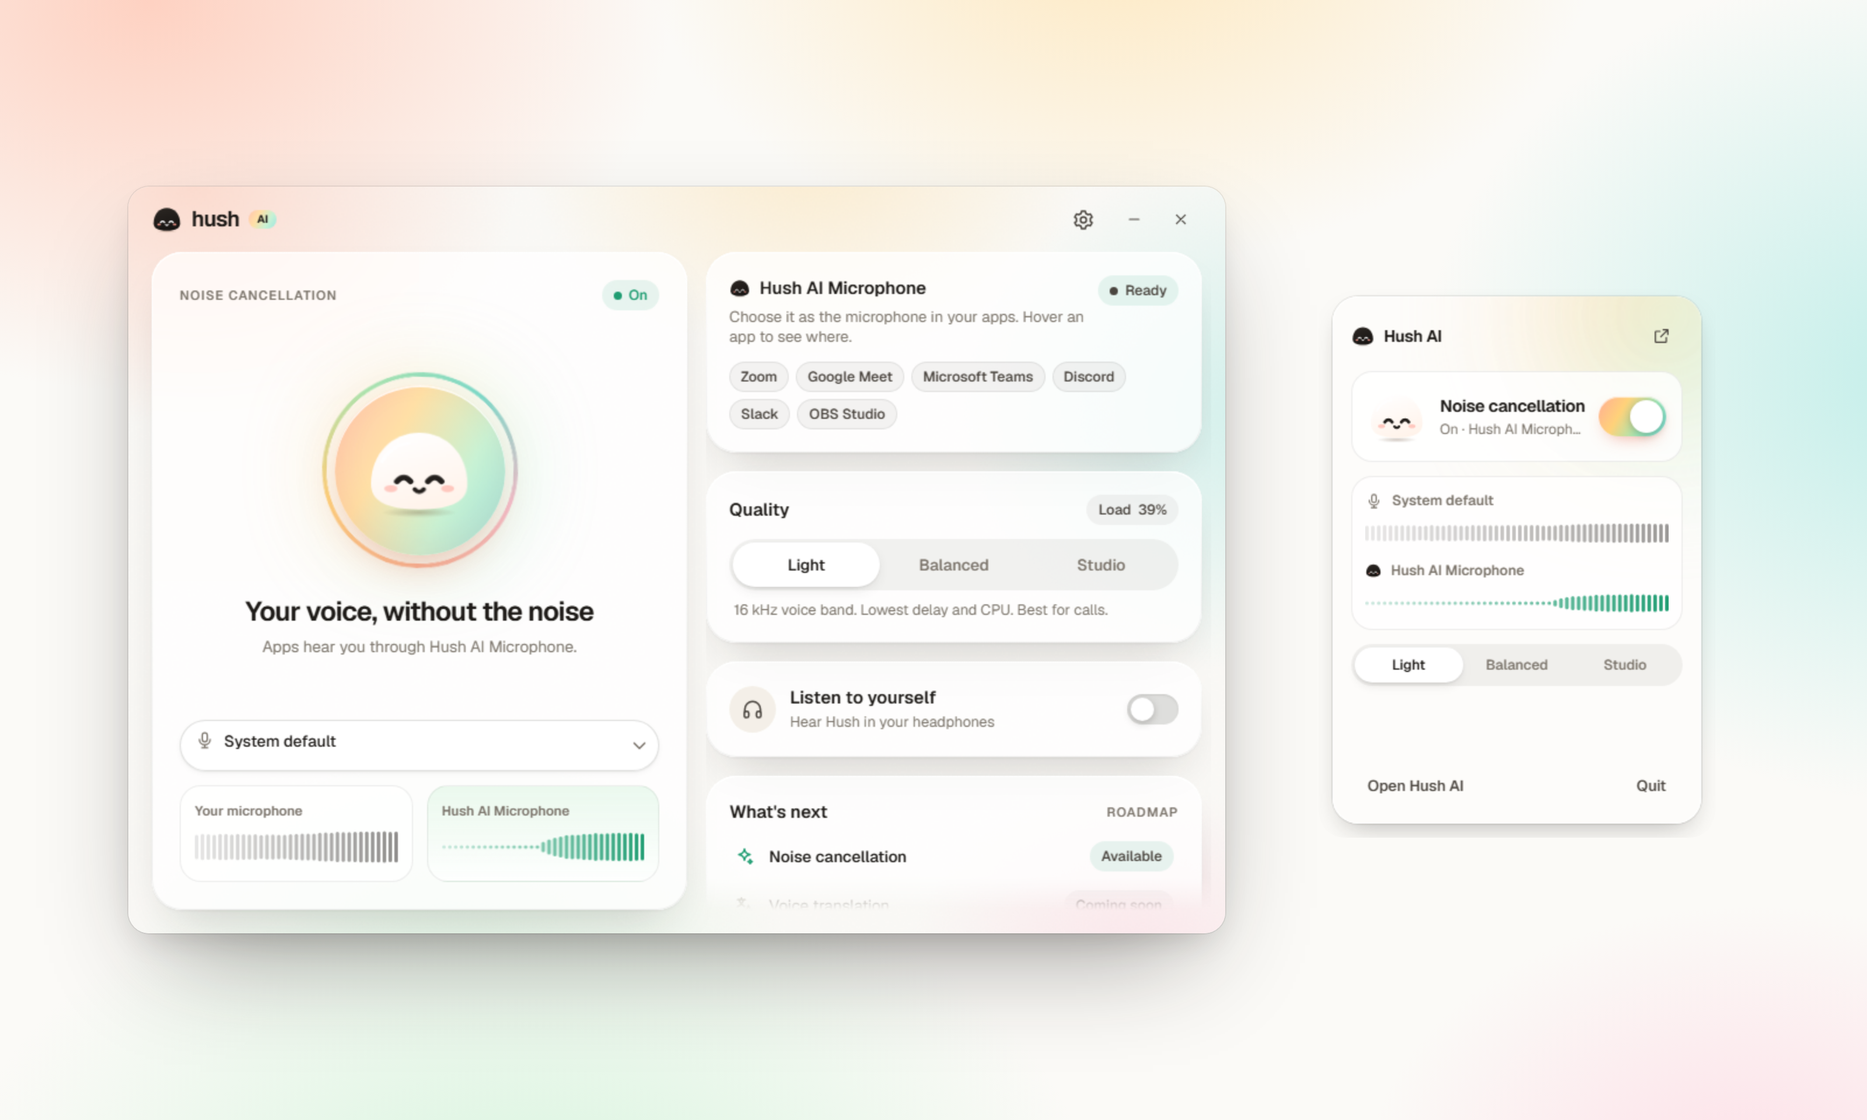
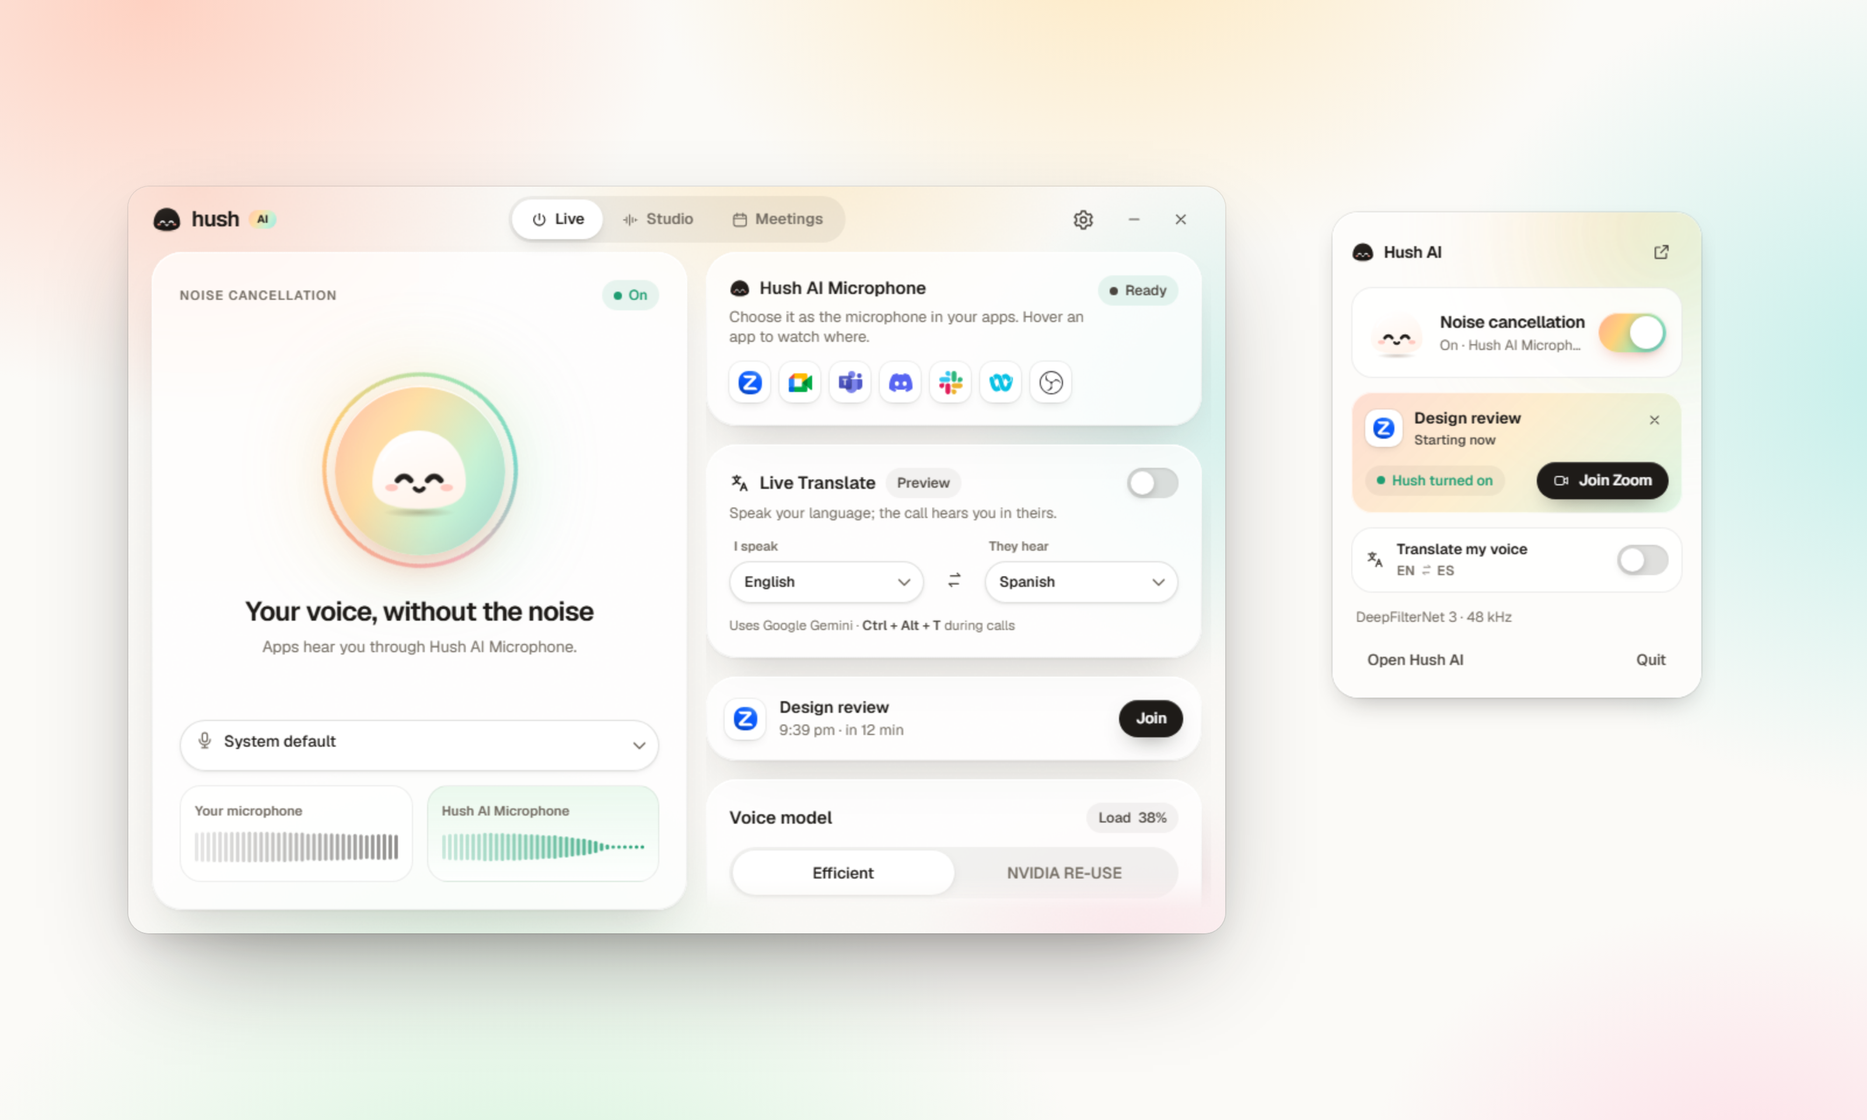
Docs and README for Studio, Meetings and Live Translate; version 1.1.0

diff --git a/assets/screenshots/showcase.html b/assets/screenshots/showcase.html
@@ -11,10 +11,10 @@
   .frame{position:absolute;border-radius:18px;overflow:hidden;background:#fbfaf7;
     box-shadow:0 0 0 1px rgba(30,27,24,.08),0 40px 90px -30px rgba(30,27,24,.45),0 12px 30px -12px rgba(30,27,24,.2)}
   .main{left:110px;top:160px;width:940px;height:640px}
-  .widget{left:1130px;top:242px;width:340px;height:476px;border-radius:22px;background:transparent;box-shadow:none}
+  .widget{left:1130px;top:170px;width:340px;height:640px;border-radius:22px;background:transparent;box-shadow:none}
   iframe{border:0;width:100%;height:100%;display:block}
 </style></head>
 <body>
   <div class="frame main"><iframe src="http://localhost:1420/?platform=windows"></iframe></div>
-  <div class="frame widget"><iframe src="http://localhost:1420/?platform=windows#widget"></iframe></div>
+  <div class="frame widget"><iframe src="http://localhost:1420/?platform=windows&soon=1#widget"></iframe></div>
 </body></html>

diff --git a/app/src/views/Studio.tsx b/app/src/views/Studio.tsx
@@ -9,7 +9,8 @@ import { toast } from "../components/Toast";
 import { features, mediaUrl, useFeatures, type StudioResult } from "../lib/features";
 import { isTauri } from "../lib/ipc";
 
-const FORMATS = ["wav", "mp3", "m4a", "aac", "flac", "ogg", "oga", "opus", "mp4", "mov", "aif", "aiff", "caf", "mkv", "webm"];
+// What Symphonia decodes: no Opus yet.
+const FORMATS = ["wav", "mp3", "m4a", "aac", "flac", "ogg", "oga", "mp4", "mov", "aif", "aiff", "caf", "mkv"];
 
 function clock(seconds: number) {
   const s = Math.max(0, Math.floor(seconds));

diff --git a/README.md b/README.md
@@ -37,20 +37,23 @@ from your voice while you talk**, and from recordings you already have.
 - **In Studio**, drop an audio or video file, or record yourself, and save a clean WAV.
 - **With Google Calendar**, Hush turns itself on a minute before each call and pops up with a
   Join button. No Google sign-in.
+- **With Live Translate** (Preview), you speak your language and the call hears you in
+  theirs, through Google's Gemini Live Translate and your own API key.
 
-No account. No cloud. No subscription. No minute limits. Your voice never leaves your computer.
+No account. No subscription. No minute limits. Noise cancellation never leaves your computer.
 
 ## Why Hush AI
 
 |  |  |
 | --- | --- |
-| 🔒 **On your computer** | Everything runs on your CPU. Hush sends no audio and no telemetry, and has no servers. |
-| 🪶 **Light** | The default engine, DeepFilterNet 3, needs about 6% of one CPU core. Your laptop stays cool and quiet. |
-| ⚡ **Real time** | 10–20 ms frames, about 60 ms from your microphone to your call. |
+| 🔒 **On your computer** | Noise cancellation and Studio run on your CPU. Hush sends no telemetry and has no servers. |
+| 🪶 **Light** | The default engine, DeepFilterNet 3, needs one thread: about 7% of a laptop core offline, 11–13% live. Your laptop stays cool and quiet. |
+| ⚡ **Real time** | 10–20 ms frames, about 60 ms before device buffers. |
 | 🎙 **Works everywhere** | One virtual microphone for every app. A tray and menu bar widget to switch it on and off. |
 | 🎚 **Two engines** | DeepFilterNet 3 (light, the default) or NVIDIA Real-time RE-USE (most natural at high settings). Switch any time. |
 | 📼 **Studio** | Clean up podcasts, voice notes, interviews and lectures. Drag and drop, compare before and after, save. |
 | 📅 **Meetings** | Google Calendar through its private iCal address. Hush is ready before your call is. |
+| 🌍 **Live Translate** | Preview. Pick "I speak" and "They hear" from 70+ languages; switch it in calls with Ctrl+Alt+T. The one feature that uses the cloud, and only while it is on. |
 | 🔓 **Open source** | Apache-2.0 app and engine. Read every line. |
 
 ## Hush AI, Krisp and Adobe Podcast
@@ -63,6 +66,7 @@ No account. No cloud. No subscription. No minute limits. Your voice never leaves
 | **Where your audio is processed** | Your computer | Your computer (noise cancellation) | Adobe's servers: you upload the file |
 | **Live calls in any app** | Yes | Yes | No |
 | **Clean up recordings** | Yes, on your computer | – | Yes, in the browser |
+| **Live voice translation** | Preview, through Google Gemini with your key | – | No |
 
 From the vendors' public pages ([krisp.ai/pricing](https://krisp.ai/pricing/),
 [podcast.adobe.com](https://podcast.adobe.com/en/plans)), November 2026; – means we did not
@@ -134,6 +138,21 @@ both waveforms, and lets you switch between the original and the clean version w
 plays. **Save clean WAV** writes a 48 kHz file wherever you like. Long files are fine: Hush
 reads and writes them in pieces, so memory stays flat.
 
+### Live Translate: be heard in their language
+
+1. On the **Live** tab, press **Add your Gemini API key**. Hush opens
+   [Google AI Studio](https://aistudio.google.com/apikey); press **Create API key** and copy
+   it. Back in Hush, the key is noticed, checked with Google and kept in Hush's settings
+   folder.
+2. Choose **I speak** and **They hear**; ⇄ swaps them.
+3. Turn on **Live Translate**. Your apps hear the translated voice through Hush AI
+   Microphone, and captions show what you said and what they hear.
+
+In a call, switch it from the tray widget, the tray menu (**Translate my voice**) or with
+**Ctrl + Alt + T** (**⌘ ⌥ T** on macOS). While it is on, your noise-cancelled voice goes to
+Google's `gemini-3.5-live-translate-preview` model; Google's terms and pricing apply to your
+key (there is a free tier). The translation follows you by a phrase or so.
+
 ### Meetings: Google Calendar without signing in
 
 Open the **Meetings** tab and press **Connect Google Calendar**:
@@ -162,6 +181,7 @@ flowchart LR
   engine --> vmic["Hush AI Microphone<br/>(virtual device)"]
   vmic --> apps["Zoom · Meet · Teams<br/>Slack · Discord · OBS · …"]
   file["📼 A recording"] --> studio["Studio<br/>same engine, off the audio path"] --> wav["Clean WAV"]
+  engine -.->|"Live Translate on"| gemini["Google Gemini<br/>Live Translate"] -.-> vmic
 ```
 
 - The **engine** (`crates/hush-core`) runs either model one frame at a time on the CPU:
@@ -187,12 +207,13 @@ the best.
 | --- | ---: | ---: | ---: | ---: | ---: |
 | No noise removal | 1.97 | 0.921 | 8.4 dB | 2.70 | – |
 | RNNoise | 2.11 | 0.890 | 12.3 dB | 2.94 | 5% |
-| **Hush · DeepFilterNet 3** (default) | **3.10** | **0.945** | **19.0 dB** | 3.18 | 6% |
+| **Hush · DeepFilterNet 3** (default) | **3.10** | **0.945** | **19.0 dB** | 3.18 | 7% |
 | Hush · NVIDIA RE-USE, Light (16 kHz, 3 layers) | 2.61 | 0.934 | 18.0 dB | 3.16 | 79% |
 | Hush · NVIDIA RE-USE, 8 layers | 2.77 | 0.938 | 18.5 dB | **3.23** | 146% |
 
 - **Hush leads every metric.** DeepFilterNet 3 has the best PESQ, STOI and SI-SDR at about
-  6% of a core; RE-USE with 8 layers has the most natural sound by DNSMOS.
+  7% of a core; RE-USE with 8 layers has the most natural sound by DNSMOS. CPU figures are
+  rough: the laptop was doing other work.
 - **Why two engines:** DeepFilterNet 3 is light and accurate, so it is the default. RE-USE
   needs a faster CPU, for people who want its sound.
 - **Both are reproduced faithfully.** Hush's RE-USE matches NVIDIA's published PESQ (2.77
@@ -210,7 +231,7 @@ long runs.
 - [x] **Noise cancellation**: real time, on device, in every app
 - [x] **Studio**: clean up recordings on your computer
 - [x] **Meetings**: Google Calendar without signing in
-- [ ] **Voice translation**
+- [x] **Voice translation**: Live Translate (Preview), through Google Gemini
 - [ ] **Agent assist**
 - [ ] **Speech analytics**
 - [ ] **Voice security**
@@ -269,9 +290,10 @@ that model. See [License](#license).
 <details>
 <summary><b>Does my voice leave my computer?</b></summary>
 
-No. Hush AI connects to the internet only to download a model once, to check GitHub for
-updates (you can turn this off), and, if you connect it, to read your calendar's iCal
-address from Google.
+Not for noise cancellation or Studio: they run on your computer. Hush connects to the
+internet to download a model once, to check GitHub for updates (you can turn this off), to
+read your calendar's iCal address if you connect one, and, **only while Live Translate is
+on**, to send your voice to Google for translation.
 </details>
 
 <details>
@@ -326,8 +348,11 @@ All docs are also on the website at [alshell7.github.io/hush-ai/docs](https://al
 - Microsoft's [SysVAD sample](https://github.com/microsoft/Windows-driver-samples) (MS-PL)
   for the Windows driver, and Apple's Audio Server Plug-in design for macOS.
 - [VB-CABLE](https://vb-audio.com/Cable/) by VB-Audio, the free virtual cable Hush uses on Windows.
-- [Symphonia](https://github.com/pdeljanov/Symphonia) for reading audio files, and
-  [rrule](https://github.com/fmeringdal/rust-rrule) for repeating calendar events.
+- [Symphonia](https://github.com/pdeljanov/Symphonia) for reading audio files,
+  [rrule](https://github.com/fmeringdal/rust-rrule) for repeating calendar events, and
+  [tungstenite](https://github.com/snapview/tungstenite-rs) for the Gemini Live connection.
+- [Google Gemini 3.5 Live Translate](https://aistudio.google.com/docs/live-api/live-translate),
+  the cloud model behind Live Translate (with your own key).
 - App logos from [gilbarbara/logos](https://github.com/gilbarbara/logos) and
   [Simple Icons](https://simpleicons.org) (CC0). The names and logos belong to their owners.
 - [Tauri](https://tauri.app), [HeroUI](https://heroui.com), [Motion](https://motion.dev) and the Geist font.

diff --git a/docs/GUIDE.md b/docs/GUIDE.md
@@ -21,7 +21,7 @@ The warnings appear because the apps are not code-signed yet. They appear only o
 1. **Voice model.** Choose a model and download it. Hush checks the file before it uses it.
    - **Efficient** (DeepFilterNet 3, 8 MB, recommended): little CPU, MIT or Apache-2.0
      license, so you can use it at work too.
-   - **NVIDIA RE-USE** (54 MB): more CPU. Accept NVIDIA's noncommercial license first.
+   - **NVIDIA RE-USE** (54 MB): more CPU. Agree to its license terms first.
 2. **Microphone.** Choose your microphone and say something. The bar moves when Hush hears you.
 3. **Hush AI Microphone.**
    - **macOS:** press **Install**. macOS asks for your password once.
@@ -53,18 +53,19 @@ own list.
 
 ## Every day
 
-- **Tray or menu bar.** Click the mochi: turn noise cancellation on or off, change the
-  microphone or the RE-USE quality. Right-click for the menu.
+- **Tray or menu bar.** Click the mochi: turn noise cancellation or Live Translate on or
+  off, swap languages, change the microphone, or join your next meeting. Double-click opens
+  the window (Windows). Right-click for the menu.
 - **Closing the window** keeps Hush running in the tray. Use **Quit** to stop it. When Hush
   is not running, Hush AI Microphone is silent.
 - **Open at login** (Settings) starts Hush in the tray when you log in.
 
 ### Voice model
 
-| Model | Use it for | Cost | License |
-| --- | --- | --- | --- |
-| **Efficient** (DeepFilterNet 3) | Everything (48 kHz full band) | Lowest CPU, one thread | MIT or Apache-2.0 |
-| **NVIDIA RE-USE** | Light, Balanced or Studio, below | More CPU | Non-commercial use only |
+| Model | Use it for | Cost |
+| --- | --- | --- |
+| **Efficient** (DeepFilterNet 3) | Everything (48 kHz full band) | Lowest CPU, one thread |
+| **NVIDIA RE-USE** | Light, Balanced or Studio, below | More CPU |
 
 Switch on the main screen. Settings › Voice models downloads or removes each model. On the
 [VoiceBank-DEMAND test](COMPARISON.md), DeepFilterNet 3 scored higher than RE-USE Light on
@@ -81,11 +82,70 @@ every metric.
 The **Load** chip shows how much of real time the model needs. Below 100% it keeps up. If
 it stays high, choose Efficient, or Light with RE-USE.
 
-### Listen to yourself
+## Studio: clean up a recording
 
-Turn on **Listen to yourself** to hear Hush in your headphones and switch between
-**Original** and **With Hush**. While Listen is on, apps do not get your voice. Use
-headphones, or your speakers will echo.
+Open the **Studio** tab.
+
+1. Drop a file on the window, press **Choose a file**, or press **Record yourself** (up to
+   30 minutes, from the microphone chosen on the Live tab).
+2. Hush cleans it with your voice model. Long files are fine; the progress ring shows the
+   time left.
+3. Press play and switch between **Original** and **With Hush** while it plays (the **A**
+   key switches, **Space** plays).
+4. **Save clean WAV** writes a 48 kHz mono file. **Show in folder** opens where you saved it.
+
+Files: WAV, MP3, M4A/AAC, FLAC, OGG, AIFF, CAF, and the sound of MP4, MOV and MKV. Stereo
+is mixed to mono. Everything happens on your computer.
+
+## Meetings: Google Calendar
+
+Open the **Meetings** tab and press **Connect Google Calendar**.
+
+1. **Open settings** opens Google Calendar's settings in your browser.
+2. Under **Settings for my calendars**, pick your calendar, then **Integrate calendar**.
+3. Copy **Secret address in iCal format**.
+4. Come back to Hush. It notices the address on the clipboard, checks it with Google and
+   shows the calendar's name and the meetings it found. Press **Connect**.
+
+You can also paste the address into the field. Any calendar that publishes an iCal
+(`.ics`) address over HTTPS works the same way.
+
+| Setting | What it does |
+| --- | --- |
+| Check for changes every 5, 15, 30 or 60 min | How often Hush reads the calendar |
+| Turn on noise cancellation 1, 2 or 5 min before | For meetings with a Meet, Zoom, Teams, Webex, Slack or Discord link |
+| Turn it off after the call | Only if Hush turned it on, and you did not turn it off yourself |
+| Pop up with a Join button | The tray widget opens a minute before the call |
+
+**Join** opens the meeting's own link. **Disconnect** makes Hush forget the address. The
+address is a secret link to your calendar: Hush keeps it only in its settings folder and
+never writes it to logs. If it leaks, reset it in Google Calendar and connect again.
+
+## Live Translate (Preview)
+
+Speak your language and the call hears you in theirs, in a natural voice, through Hush AI
+Microphone. Hush uses Google's **Gemini 3.5 Live Translate** model with your own API key.
+
+1. On the Live tab, press **Add your Gemini API key**. Hush opens Google AI Studio.
+2. Press **Create API key** and copy it. Back in Hush, it is noticed, checked with Google and
+   kept in Hush's settings folder.
+3. Choose **I speak** and **They hear** (70+ languages). ⇄ swaps them.
+4. Turn on **Live Translate**. Captions show what you said and what they hear.
+
+During a call, use the switch in the tray widget, **Translate my voice** in the tray menu,
+or **Ctrl + Alt + T** (**⌘ ⌥ T** on macOS) in any app. Translation turns noise cancellation
+on too, and stops when you turn noise cancellation off.
+
+Good to know:
+
+- **It uses the internet.** While Live Translate is on, your noise-cancelled voice goes to
+  Google; everything else in Hush stays on your computer.
+- **It follows you by a phrase or so.** Gemini translates phrase by phrase, so the other side
+  hears you a moment after you speak.
+- **Cost:** Google offers a free tier; paid use is billed by Google to your key. Google's
+  terms apply to the audio you send.
+- If you already speak their language, Gemini repeats you in that language, so they always
+  hear you.
 
 ## Fix problems
 
@@ -97,6 +157,11 @@ headphones, or your speakers will echo.
 | Windows: Hush AI Microphone missing after a VB-CABLE update | Open Hush › Set up › **Rename** again. |
 | macOS: Hush AI Microphone missing | Settings › Hush AI Microphone, or run setup again (it restarts Core Audio). |
 | Delay is noticeable | Windows with VB-CABLE adds about 84 ms. In VB-CABLE's control panel, a smaller buffer lowers it. |
+| Studio: "Hush cannot read this file" | Convert it to WAV or MP3. Opus files (for example WhatsApp voice notes) are not supported yet. |
+| Meetings: "The calendar did not accept this address" | The secret address was reset. Copy it again from Google Calendar. |
+| Live Translate: "Google did not accept this API key" | Create a new key in Google AI Studio and add it again. |
+| Live Translate is on but they hear silence | Check that Hush is **On**, speak a full sentence and wait a moment. Gemini answers phrase by phrase. |
+| Ctrl + Alt + T does nothing | Another app uses the same shortcut. Use the switch in the widget instead. |
 
 ## Uninstall
 
@@ -110,6 +175,8 @@ headphones, or your speakers will echo.
 
 ## Privacy
 
-Hush processes audio only on your computer. It connects to the internet to download a
-model (Hugging Face, or GitHub as a fallback) and to check for updates (GitHub). It sends no audio, no usage data and
-no crash reports.
+Noise cancellation and Studio run only on your computer. Hush connects to the internet to
+download a model (Hugging Face, or the model's original source as a fallback), to check for
+updates (GitHub), to read your calendar's iCal address if you connect one (Google), and to
+send your voice to Google while **Live Translate** is on. It sends no usage data and no
+crash reports, and it has no servers of its own.

diff --git a/docs/ARCHITECTURE.md b/docs/ARCHITECTURE.md
@@ -25,10 +25,10 @@ Both implement `hush_core::Enhancer`, the streaming interface that the live work
 ```mermaid
 flowchart LR
   A["Microphone<br/>input callback"] -->|bounded queue| B["Inference worker<br/>rate conversion · model · drift control"]
-  B -->|bounded queue| C{Output}
-  C -->|Hush AI Microphone| D["Feeder thread<br/>(2 ms, real-time priority)"]
-  C -->|Listen| E["Headphones<br/>output callback"]
-  D --> F["Driver ring buffer"]
+  B -->|bounded queue| C["Output callback or feeder<br/>(Live Translate tap)"]
+  C -->|clean voice, while translating| T["Translator thread<br/>Gemini Live over WebSocket"]
+  T -->|translated voice| C
+  C --> F["Hush AI Microphone"]
   F --> G["Zoom · Meet · Teams · …"]
 ```
 
@@ -39,8 +39,9 @@ flowchart LR
 | Input callback | Converts and down-mixes samples into a bounded queue | No allocation, lock or inference. A full queue drops samples and counts them |
 | Inference worker | Rate conversion, framing, model, output queue | Owns all model and filter state. DeepFilterNet 3 runs here, on this thread only |
 | Rayon workers | Parallel CPU kernels of RE-USE | **Automatic** (default) or a fixed count |
-| Output callback | Reads samples, fades gaps to silence | No allocation, lock or waiting |
-| Virtual microphone feeder | Moves output into the driver's ring buffer | Real-time priority; 2 ms period |
+| Output callback | Reads samples, fades gaps to silence, applies the Live Translate tap | No allocation, lock or waiting |
+| Virtual microphone feeder | Moves output into the driver's ring buffer (macOS) | Real-time priority; 2 ms period |
+| Translator | Only while Live Translate is on: sends 100 ms of 16 kHz voice to Gemini, plays its 24 kHz answer | Off the audio path; talks to the tap through two lock-free queues |
 
 ### Workers and priority
 
@@ -85,9 +86,16 @@ The worker counts frame time, peaks, drops and underruns with lock-free atomics.
 reads them 20 times per second, only while a window that shows them is visible. **Load** is
 the share of real time the worker needs for its frames: below 100% it keeps up.
 
-**Listen to yourself** sends the output to headphones instead of the Hush AI Microphone.
-The **Original / With Hush** switch plays the input delayed by the model delay, so both
-stay aligned and switching is seamless.
+### Live Translate tap
+
+Each live session creates a tap with two lock-free queues and shares one flag with the
+translator. While the flag is off, the tap does nothing. While it is on, the output callback
+pushes the clean voice into one queue and plays the translated voice from the other,
+silence when nothing has arrived yet. The translator thread resamples to 16 kHz, sends
+100 ms messages to `gemini-3.5-live-translate-preview` over the Live API WebSocket, decodes
+the 24 kHz answer and resamples it to the device rate. It keeps a session-resumption handle,
+so it continues on a new connection when Google rotates the old one (about every 10
+minutes), and reconnects with a new setup when the target language changes.
 
 ## App
 
@@ -102,7 +110,10 @@ flowchart TB
     MO["model.rs<br/>two models · download · SHA-256"]
     V["vmic.rs<br/>driver setup per system"]
     T["mictest.rs<br/>level meter · test recording"]
-    TR["tray.rs<br/>icon · menu · widget position"]
+    S["studio.rs<br/>decode · enhance · WAV"]
+    CA["calendar.rs<br/>iCal · repeats · auto on/off"]
+    TL["translate.rs<br/>Gemini Live Translate"]
+    TR["tray.rs<br/>icon · menu · widget"]
   end
   M <--> E
   W <--> E
@@ -123,6 +134,13 @@ flowchart TB
   DeepFilterNet repository at tag v0.5.6. RE-USE (54 MB) comes from the Hugging Face mirror, then
   NVIDIA's pinned revision. Settings from Hush AI 1.0 keep RE-USE; new installs start with
   DeepFilterNet 3.
+- **Studio** decodes files with Symphonia, mixes them to mono and converts them to 48 kHz
+  in a streaming pipeline, runs the chosen model off the audio path, and writes the original
+  and the result as WAV files into the app's cache folder for playback. Memory stays flat
+  for long files.
+- **Calendar** reads the iCal address every few minutes, expands repeating events (with
+  `rrule`), moved and cancelled occurrences, and finds call links. A 10-second tick turns
+  noise cancellation on before a call and pops up the widget.
 - **Updates** come from GitHub Releases. Each update is signed; the app checks the
   signature before it installs.
 - **Single instance.** A second start shows the running window.
